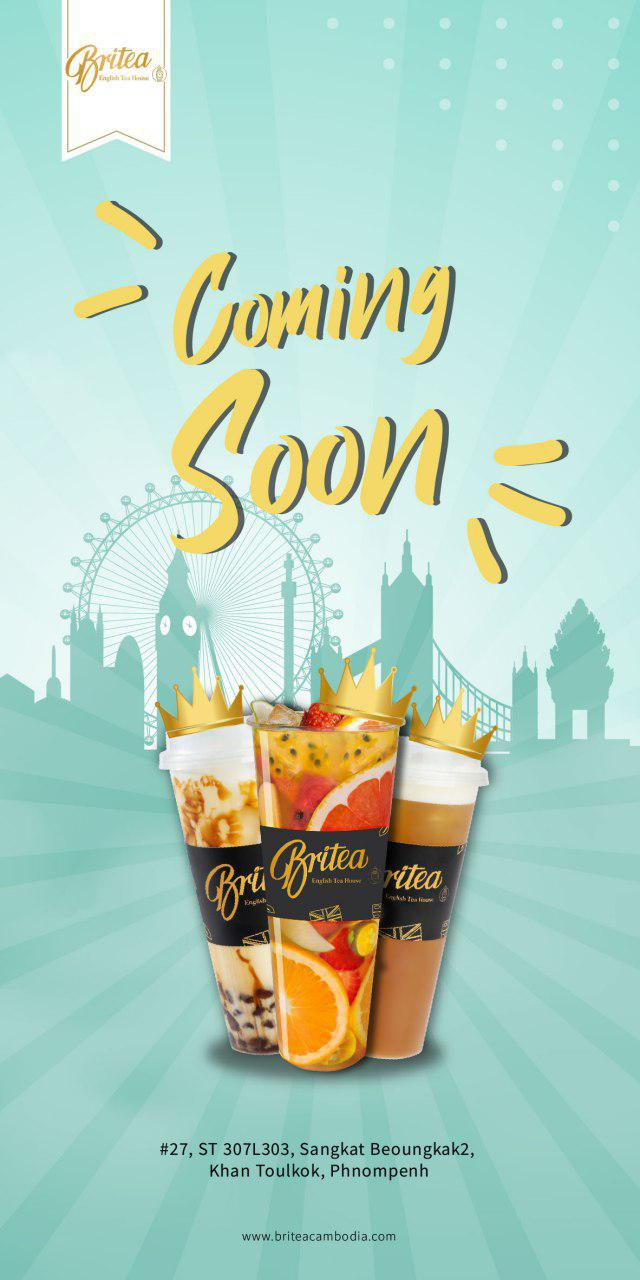
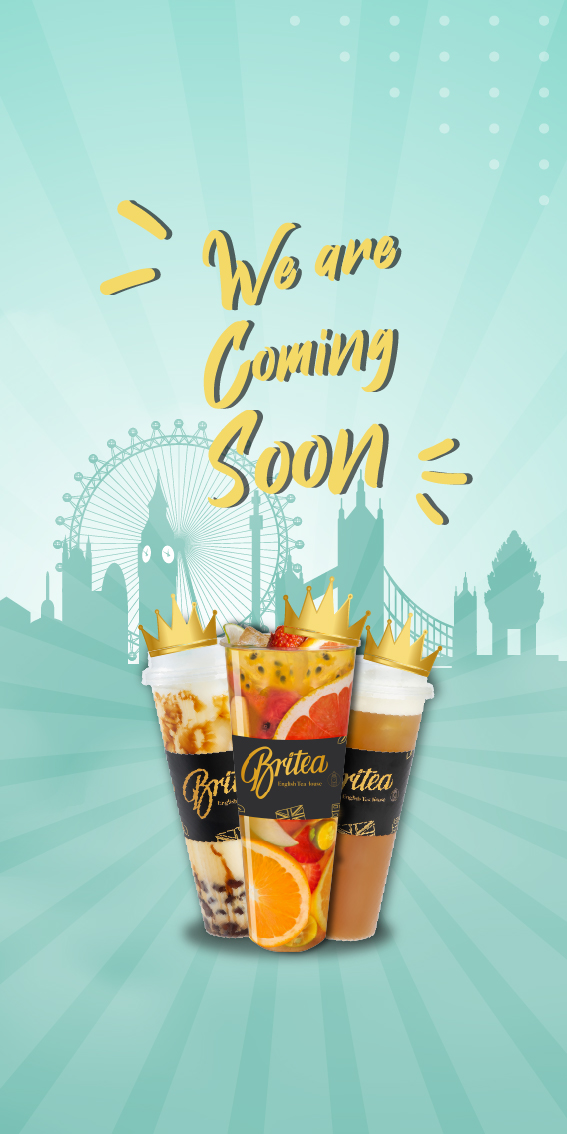
Add files via upload

diff --git a/britea-mobile.css b/britea-mobile.css
@@ -7,9 +7,7 @@ html {
   box-sizing: border-box;
 }
 body {
-  /*
-  background-image: url('mobile-body-bg.jpg');
-  */
+
 }
 ::selection {
   background-color: #DDAB4C;
@@ -41,21 +39,12 @@ body {
   .header-container-desktop {
     display: none;  /* doesn't display on mobile */
   }
-    .home-container-mobile {
-      display: flex;
-      flex-direction: column;
-      align-items: center;
 
-      width: 90vw;
-      border-radius: 5vmax;
-      max-height: 40vh;
-
-    }
       .logo-container-mobile {
         display: inline-block;
         margin: 5vmax 5vmin; /* important */
-        width: 25vw;
-        height: 25vw;
+        width: 25vmin;
+        height: 25vmin;
         /*border: green 1px solid; /* debug */
       }
         #logo-small-mobile {
@@ -149,6 +138,7 @@ body {
     .heading-text {
       font-family: 'Source Serif Pro', serif;
       color: #DDAB4C;
+      font-size: 4vmax;
       padding: 2.5vmin;
     }
     .map-box { /* contains map */
@@ -157,10 +147,12 @@ body {
     }
     .content-text {
       text-align: center;
+      font-size: 2.25vmax;
       font-family: 'Open Sans', sans-serif;
       margin: 1.25vmax;
       color: #DDAB4C;
       line-height: 1.6;
+      max-width: 65vw;
     }
   .footer-container-desktop { /* doesn't show up on mobile */
     display: none;

diff --git a/mobile-home.html b/mobile-home.html
@@ -11,6 +11,19 @@
     <link href="https://fonts.googleapis.com/css?family=Open+Sans&display=swap" rel="stylesheet">
     <link href="https://fonts.googleapis.com/css?family=Oxygen&display=swap" rel="stylesheet">
     <script src="britea-mobile.js"></script>
+    <style>
+      .home-pic-container-mobile {
+        display: flex;
+        flex-direction: column;
+        /*border: 1px solid red;*/
+        align-items: center;
+
+      }
+        #mobile-home-pic {
+          max-width: 100%;
+          margin-bottom: 5%;
+        }
+    </style>
   </head>
   <body>
     <div class="parent-container-home">
@@ -44,6 +57,10 @@
 
 
 
+
+    </div>
+    <div class="home-pic-container-mobile"> <!--- homepage contents start here --->
+      <img src="coming-soon-mobile.jpg" id="mobile-home-pic">
 
     </div>
 

diff --git a/britea-desktop.css b/britea-desktop.css
@@ -40,9 +40,9 @@ body {
     top: 0;
   }
     #logo {
-      min-width: 100px;
       max-width: 7.5vw;
       margin-bottom: 2.5vh;
+      margin-left: 7.5vw;
     }
     .navbar {
       display: flex;
